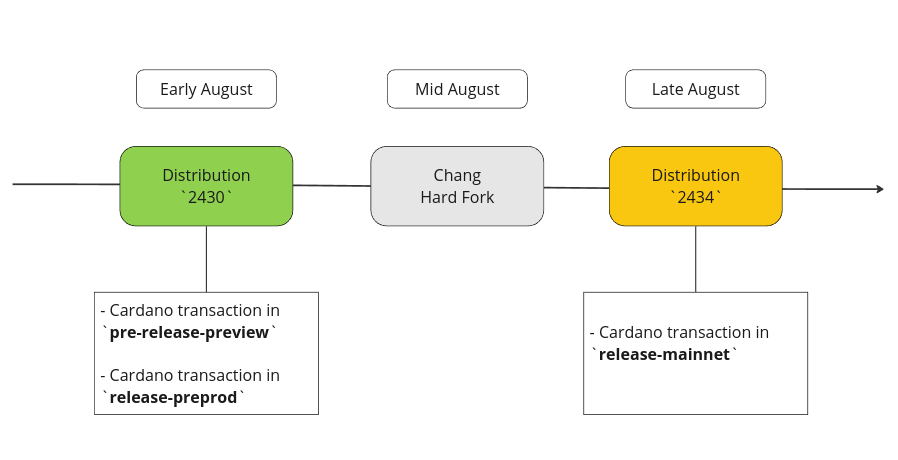
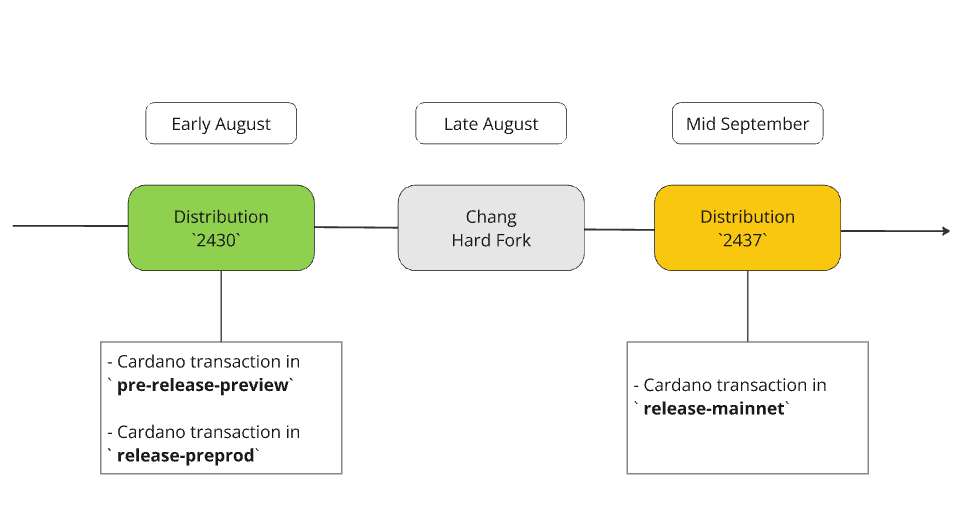
docs: update 'Certification of Cardano transactions' dev blog post

Changed region(s): [[0.0, 0.1522, 0.9978, 0.9435], [0.6236, 0.6696, 0.9042, 0.9435]]

diff --git a/docs/website/blog/2024-07-30-cardano-transaction-certification/index.md b/docs/website/blog/2024-07-30-cardano-transaction-certification/index.md
@@ -7,16 +7,24 @@ tags: [certification, cardano transaction]
 
 ### Certification of Cardano transactions
 
+:::info
+
+A threshold of at least **75%** of the stake running version `0.2.182` (within **10** days after the distribution `2437` is released) is mandatory in order to activate the certification of the Cardano transactions on the `release-mainnet` network.
+
+The [Mithril Protocol Insights](https://lookerstudio.google.com/u/0/reporting/8b05ea4b-6a43-45ea-aef2-237906ec7a42?s=oi6CR5eZrnQ) dashboard displays the adoption rate of the different signer versions on the `release-mainnet` network.
+
+:::
+
 With the release of the new distribution [2430](https://github.com/input-output-hk/mithril/releases/tag/2430.0), we have started to roll-out the certification of the **Cardano transactions** in the Mithril networks.
 
 ![](img/cardano-transaction-rollout-plan.png)
 
 The roll-out plan of the feature is the following:
 
-- [x] Distribution `2430` (before the **Chang** hardfork):
+- [x] Distribution [2430](https://github.com/input-output-hk/mithril/releases/tag/2430.0) (before the **Chang** hardfork):
   - [x] Activation of the certification of **Cardano transactions** in the `pre-release-preview` network.
   - [x] Activation of the certification of **Cardano transactions** in the `release-preprod` network.
-- [ ] Distribution `2434` (after the **Chang** hardfork):
+- [x] Distribution [2437](https://github.com/input-output-hk/mithril/releases/tag/2437.1) (after the **Chang** hardfork):
   - [ ] Activation of the certification of **Cardano transactions** in the `release-mainnet` network.
 
 For any inquiries or assistance, don't hesitate to reach out to the team on the [Discord channel](https://discord.gg/5kaErDKDRq).
